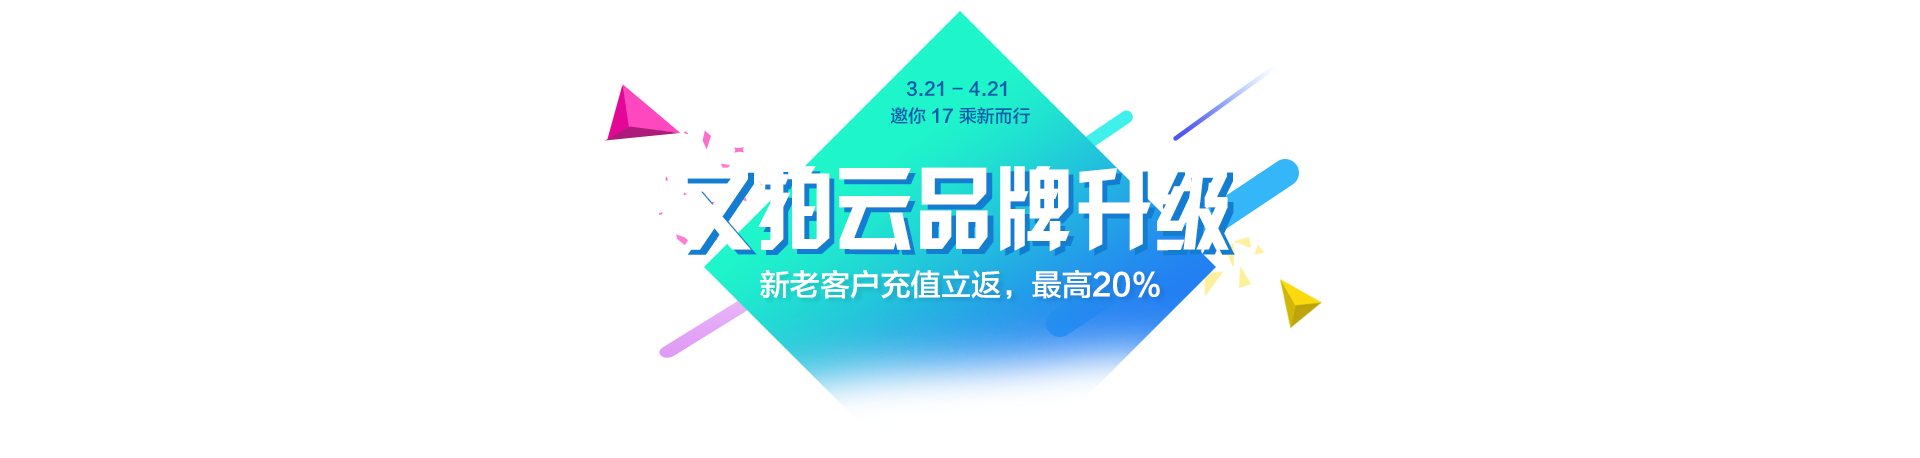
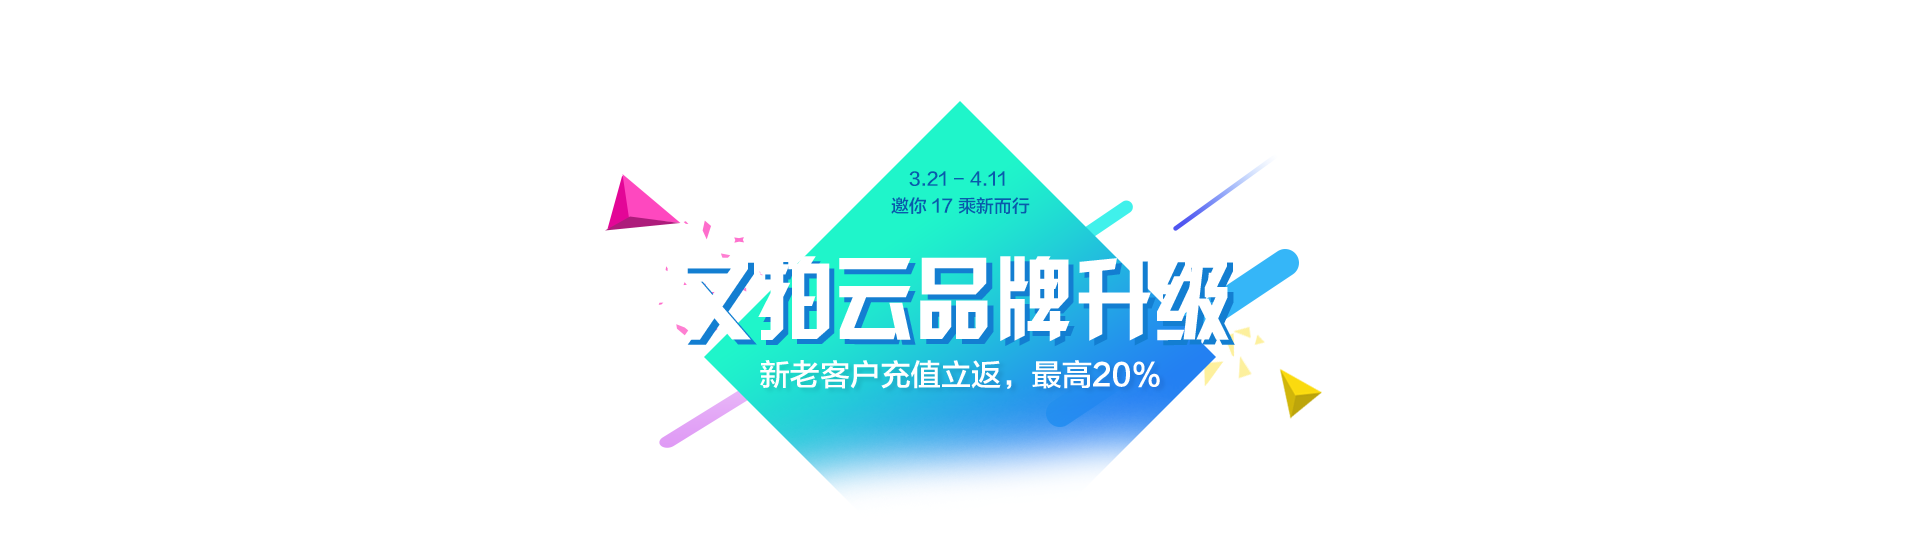
optimize pages of brandnew and promotion

Changed region(s): [[0.3125, 0.0306, 0.6875, 0.8865], [0.3125, 0.1834, 0.375, 0.3057], [0.625, 0.1834, 0.6562, 0.2445]]

diff --git a/src/pages/home/index.vue b/src/pages/home/index.vue
@@ -5,7 +5,7 @@
   layout(:colors="colorSet")
     div(slot="hero")
       summit(animate)
-      .slide
+      .slide(v-if="showOrigin")
         .title 为 Web 和移动应用
           br
           | 提供更快、更安全的全网加速
@@ -16,6 +16,13 @@
         .buttons
           up_button(type="major", :color="colorSet.mid", :url="$links.console", target="_blank") 免费体验
           up_button(url="http://docs.upyun.com/cdn/guide/" target="_blank") 快速入门
+      .slide(v-if="!showOrigin")
+        .title 又拍云品牌全新升级
+        .sub-title 从产品到服务，从连接到守护、从国内到海外
+        div(style="font-size: 26px; margin-top: 15px") 全面加速在线业务
+        .buttons
+          up_button(type="major", :color="colorSet.mid", url="/brandnew") 品牌故事
+          up_button(url="/promotion") 升级大促
       //- .dots
         .dot.active
         .dot
@@ -139,9 +146,15 @@ export default {
         { name: '贝贝网', file: 'beibei' },
         { name: '魅族', file: 'meizu' },
         { name: 'Snail', file: 'snail' }
-      ]
+      ],
+      showOrigin: false
     }
   },
-  components: { layout, summit, brand_logos }
+  components: { layout, summit, brand_logos },
+  mounted () {
+    setTimeout(() => {
+      this.showOrigin = true
+    }, 5000)
+  }
 }
 </script>

diff --git a/src/components/page_header.vue b/src/components/page_header.vue
@@ -5,12 +5,12 @@
     router-link.logo(to="/")
       img(src="../assets/logo.svg")
     .navs
-      .nav(@mouseover="showMenu(0)", @mouseout="hideMenu", v-if="showNavs") 产品
-      .nav(@mouseover="showMenu(1)", @mouseout="hideMenu", v-if="showNavs") 解决方案
-      router-link.nav(to="/pricing", v-if="showNavs") 价格
-      .nav(@mouseover="showMenu(2)", @mouseout="hideMenu", v-if="showNavs") 帮助与文档
-      .nav(@mouseover="showMenu(3)", @mouseout="hideMenu", v-if="showNavs") 媒体与活动
-      router-link.nav.hot-promotion(to="/promotion", v-if="showNavs") 品牌升级大促
+      .nav(@mouseover="showMenu(0)", @mouseout="hideMenu") 产品
+      .nav(@mouseover="showMenu(1)", @mouseout="hideMenu") 解决方案
+      router-link.nav(to="/pricing") 价格
+      .nav(@mouseover="showMenu(2)", @mouseout="hideMenu") 帮助与文档
+      .nav(@mouseover="showMenu(3)", @mouseout="hideMenu") 媒体与活动
+      router-link.nav.hot-promotion(to="/promotion") 品牌升级大促
     .side-navs
       a.nav(:href="$links.register") 注册
       a.nav.console(:href="$links.login") 控制台
@@ -138,11 +138,6 @@ export default {
     },
     checkMenu () {
       this.menuShowing = this.menuActive
-    }
-  },
-  computed: {
-    showNavs () {
-      return this.$route.path !== '/promotion'
     }
   }
 }

diff --git a/src/pages/others/layout.vue b/src/pages/others/layout.vue
@@ -20,19 +20,23 @@
       border-bottom: 1px solid #1eb3de
   &.brandnew
     .hero
-      height: 620px
+      height: 548px
       .cover
-        height: 540px
+        position: relative
+        top: -80px
+        height: 548px
         background: url('./assets/brandnew/banner.png') center no-repeat
   &.promotion
     .hero
-      height: 538px
+      height: 620px
       .cover
-        height: 458px
+        position: relative
+        top: -50px
+        height: 548px
         background: url('./assets/promotion/banner.png') center no-repeat
       .charge-now
         position: relative
-        top: -110px
+        top: -140px
         text-align: center
 </style>
 

diff --git a/src/components/layout.vue b/src/components/layout.vue
@@ -44,6 +44,9 @@ export default {
     window.sessionStorage.setItem('up_colors', JSON.stringify(newColors))
   },
   head: {
+    title: {
+      inner: '又拍云 - 加速在线业务'
+    },
     meta: [
       { name: 'keywords', content: 'CDN,云加速,视频加速,音频加速,全站加速,文件加速,智能CDN,云服务,CDN加速,音视频处理,云存储', id: 'kw' },
       { name: 'description', content: '又拍云 是国内领先的CDN服务提供商，国家工信部认证通过的“可信云”，乌云众测平台认证的“安全云”，为移动时代的创业者提供新一代的CDN加速服务。', id: 'desc' }

diff --git a/index.html b/index.html
@@ -2,7 +2,7 @@
 <html>
   <head>
     <meta charset="utf-8">
-    <title>又拍云</title>
+    <title>又拍云 - 加速在线业务</title>
     <meta name="keywords" content="CDN,云加速,视频加速,音频加速,全站加速,文件加速,智能CDN,云服务,CDN加速,音视频处理,云存储" id="kw">
     <meta name="description" content="又拍云 是国内领先的CDN服务提供商，国家工信部认证通过的“可信云”，乌云众测平台认证的“安全云”，为移动时代的创业者提供新一代的CDN加速服务。" id="desc">
     <meta http-equiv="X-UA-Compatible" content="IE=edge,chrome=1">

diff --git a/src/pages/others/brandnew.sass b/src/pages/others/brandnew.sass
@@ -7,6 +7,7 @@
 //   top: 180px
 //   text-align: center
 //   margin: 0 auto
+//   color: #fff
 //   .summary-title
 //     font-size: 50px
 //   .logo-area
@@ -171,10 +172,10 @@
         height: auto
 .banner-box
   position: relative
-  height: 458px
+  height: 548px
   background-image: linear-gradient(312deg, #3AE7F3 0%, #1e96e5 100%)
   .banner
-    height: 458px
+    height: 548px
     background: url('./assets/promotion/banner.png') center no-repeat
   .charge-now
     position: relative

diff --git a/src/pages/others/promotion.sass b/src/pages/others/promotion.sass
@@ -1,3 +1,4 @@
+@import "../../assets/animations"
 .wrapper
   width: 100%
   margin: 0 auto
@@ -37,6 +38,7 @@
         font-size: 16px
         padding: 20px 0 80px 20px
   .charge-btn
+    +animate(fadeInUp, .5s, .8s)
     display: block
     width: 200px
     margin: 50px auto 40px
